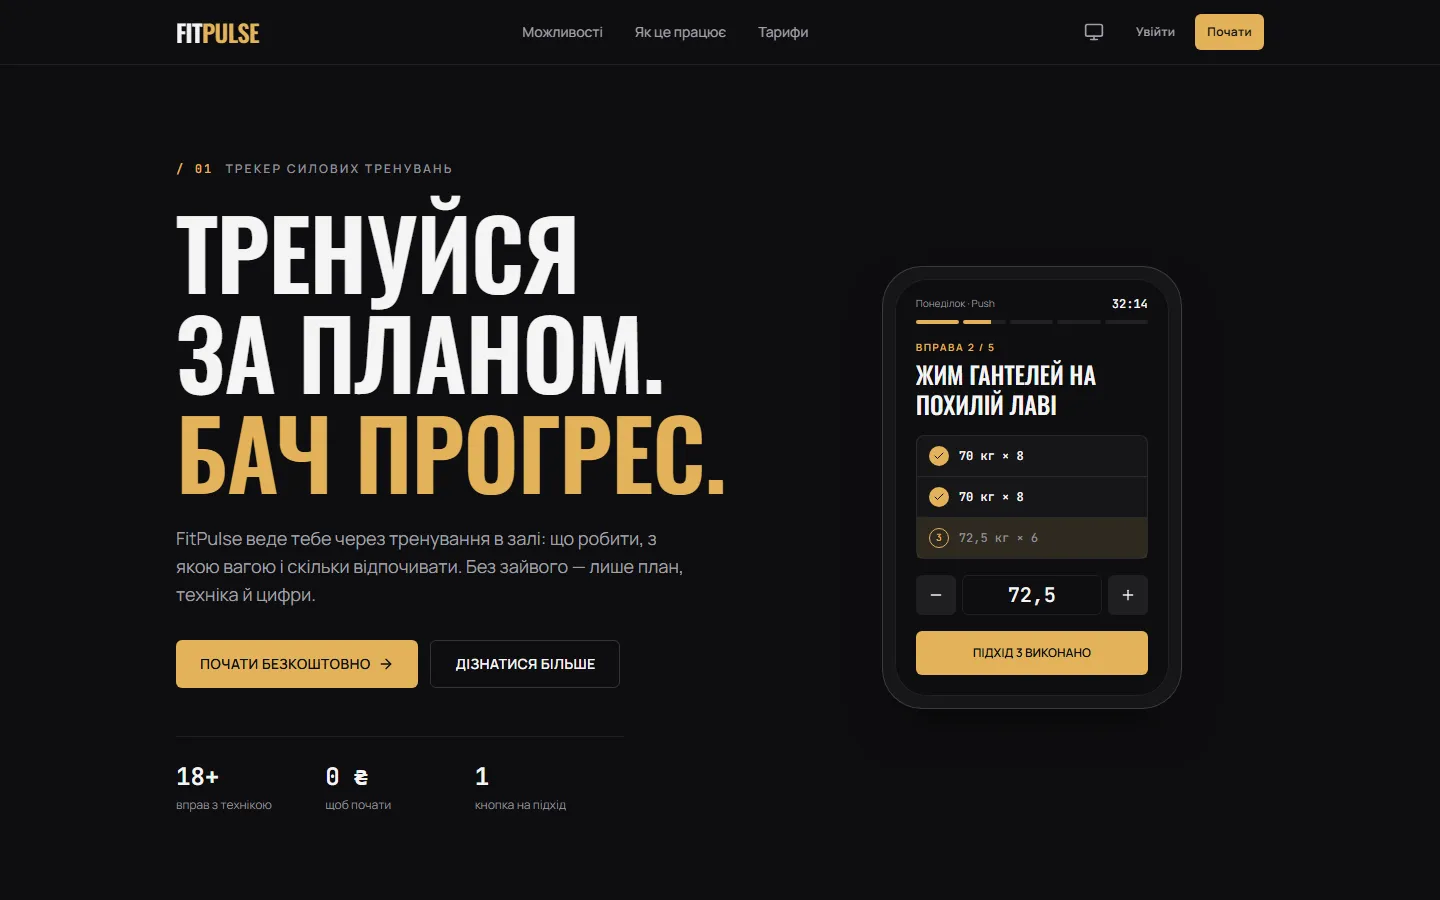
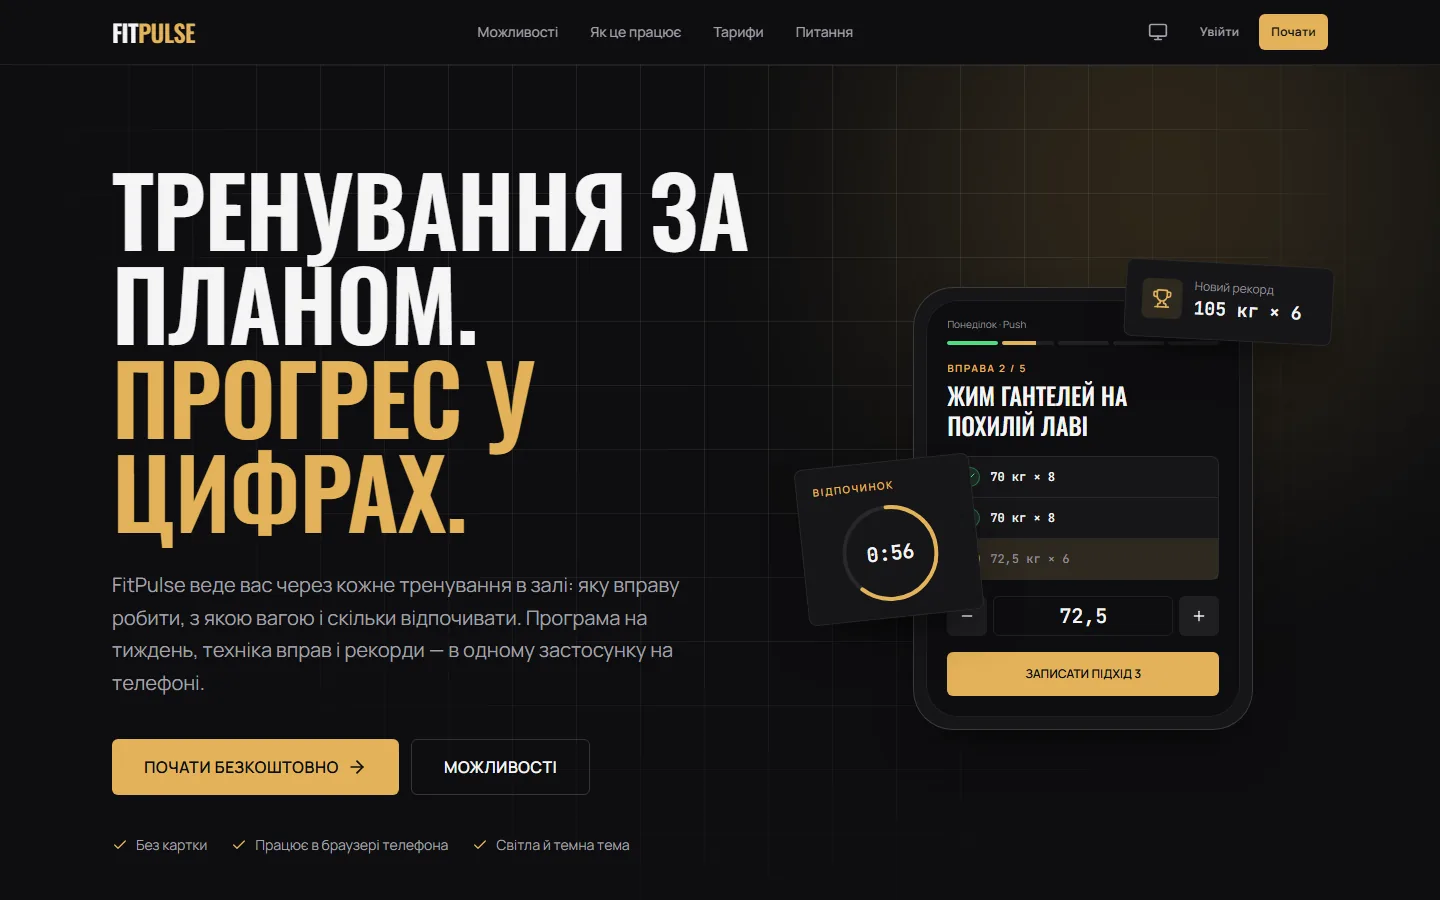
docs(readme): describe current features, data storage and git workflow
Refresh landing screenshot, add features screenshot and a pull request template.

diff --git a/README.md b/README.md
@@ -1,38 +1,66 @@
 # FitPulse
 
-Трекер силових тренувань для телефона в залі: план на тиждень, техніка кожної вправи, режим тренування з таймером відпочинку і журнал прогресу.
+Безкоштовний трекер силових тренувань для телефона в залі. Програма на тиждень, техніка кожної вправи, режим тренування з таймером відпочинку і журнал прогресу — в одному застосунку, без встановлення.
 
-[Демо](https://fit-pulse-beta-opal.vercel.app)
+**[Відкрити демо](https://fit-pulse-beta-opal.vercel.app)**
 
-![Лендинг FitPulse](docs/screenshots/landing.webp)
-
-![Головна, режим тренування, відпочинок і каталог вправ на телефоні](docs/screenshots/mobile.webp)
+![Перший екран лендингу FitPulse](docs/screenshots/landing.webp)
 
 ## Можливості
 
-- **Акаунт.** Реєстрація та вхід з валідацією та індикатором надійності пароля. Фото профілю можна завантажити (обрізається до квадрата й стискається), без фото показується стандартна аватарка.
-- **Головна.** Тренування на сьогодні з однією кнопкою старту, тиждень (заплановані й виконані дні), підсумки тижня, останнє тренування.
-- **Режим тренування.** Повноекранний, під одну руку: великі степери ваги й повторів, кнопка «Підхід виконано», шторка відпочинку з ±15 с, звуком і вібрацією. Екран не гасне під час тренування (Wake Lock API).
-- **Каталог вправ.** Пошук, групи м'язів, фільтри в нижній шторці, обране. Для кожної вправи — фотокадри техніки, анімований манекен по фазах руху, анатомічна карта м'язів, типові помилки й поради.
-- **Програми.** Пошук за назвою або вправою, згорнутий список з міні-тижнем, редактор днів, старт дня однією кнопкою.
-- **Прогрес.** Журнал сесій, тоннаж, час у залі, автоматичний перерахунок особистих рекордів.
-- **Профіль.** ІМТ зі шкалою, денна норма калорій, тема, тариф, вихід з акаунта.
-- **Теми.** Світла, темна і «як у системі»; всі пари кольорів проходять контраст WCAG AA.
-- **Тарифи.** «Старт» безкоштовний; Pro і «Тренер» описані на лендингу як майбутні.
-- **Реклама.** Три рівні слотів (premium, standard, basic) і шторка після тренування; вимкнена за замовчуванням.
-
-## Стек
+![Можливості FitPulse: техніка вправ, режим тренування, таймер, програми, прогрес](docs/screenshots/features.webp)
 
 | | |
 |---|---|
-| UI | React 19, TypeScript (strict), Tailwind CSS 4 |
-| Стан | Redux Toolkit 2, React Redux |
-| Маршрутизація | React Router 7 |
+| **Техніка вправ** | Анімація чотирьох фаз руху, анатомічна карта м'язів, типові помилки й поради. Пошук і фільтри за м'язами, обладнанням і рівнем. |
+| **Режим тренування** | Повноекранний, під одну руку: вага й повтори кнопками ±, підхід записується одним дотиком. Екран не гасне під час сесії. |
+| **Таймер відпочинку** | Стартує сам після кожного підходу, з вібрацією і звуком; час можна змінити на ±15 с або пропустити. |
+| **Програми** | Готові спліти Push / Pull / Legs і Full Body або власний розклад. Пошук за назвою програми чи вправою. |
+| **Прогрес** | Журнал сесій, тоннаж, час у залі, особисті рекорди рахуються автоматично. |
+| **Головна** | Тренування на сьогодні з однією кнопкою старту, тиждень із виконаними й запланованими днями, підсумки. |
+| **Профіль** | Фото профілю, ІМТ, денна норма калорій, вибір теми, тариф. |
+
+![Головна, режим тренування, відпочинок і каталог вправ на телефоні](docs/screenshots/mobile.webp)
+
+## Для кого
+
+- **Новачкам** — щоб знати, яку вправу робити і як правильно.
+- **Тим, хто тренується давно** — щоб тримати програму й бачити прогрес у цифрах, а не в зошиті.
+
+## Тарифи
+
+| Тариф | Статус |
+|---|---|
+| **Старт** | безкоштовний назавжди: каталог вправ, до 3 програм, журнал і рекорди, таймер відпочинку |
+| **Pro** | у розробці: необмежені програми, розширена аналітика, синхронізація між пристроями, без реклами |
+| **Тренер** | у розробці: до 20 клієнтів, призначення програм, звіти по клієнтах |
+
+## Дизайн
+
+- Світла, темна і «як у системі» теми; контраст тексту відповідає WCAG AA.
+- Один теплий золотий акцент. Суцільна золота заливка — завжди кнопка; виконане позначається зеленим, поточне — золотим контуром.
+- Mobile-first: нижня панель із кнопкою тренування на телефоні, бічна навігація на комп'ютері.
+- Підтвердження й сповіщення — акуратні тости замість системних вікон.
+
+## Дані та приватність
+
+Бекенду поки немає: усе зберігається в браузері.
+
+- **localStorage** — акаунт, програми, журнал, рекорди, тема.
+- **sessionStorage** — стан однієї вкладки: фільтри каталогу, пошук програм, чернетка реєстрації, сторінка для повернення після входу, а також сесія без «Запам'ятати мене» (вихід після закриття вкладки).
+
+Паролі зберігаються лише як хеш (PBKDF2-SHA-256 із сіллю). Це навчальна реалізація, а не заміна серверній авторизації. Тренувальні дані поки спільні для всіх акаунтів одного браузера.
+
+## Технології
+
+| | |
+|---|---|
+| UI | React 19, TypeScript (strict), Tailwind CSS 4 — власні компоненти без UI-бібліотек |
+| Стан | Redux Toolkit 2 |
+| Маршрутизація | React Router 7, сторінки застосунку завантажуються ліниво |
 | Збірка | Vite 8 |
 | Якість | Oxlint, Vitest, GitHub Actions |
-| Інше | lucide-react, sonner (toast і діалоги підтвердження) |
-
-UI-компоненти власні, без бібліотек компонентів.
+| Інше | lucide-react, sonner |
 
 ## Запуск
 
@@ -40,77 +68,53 @@ UI-компоненти власні, без бібліотек компонен
 
 ```bash
 npm install
-npm run dev        # http://localhost:5173
+npm run dev
 ```
 
 | Команда | Що робить |
 |---|---|
-| `npm run dev` | Dev-сервер |
-| `npm run build` | Перевірка типів і production-збірка в `dist/` |
-| `npm run preview` | Перегляд production-збірки |
-| `npm run lint` | Oxlint |
-| `npm test` | Vitest |
+| `npm run dev` | dev-сервер на http://localhost:5173 |
+| `npm run build` | перевірка типів і production-збірка |
+| `npm run preview` | перегляд production-збірки |
+| `npm run lint` | перевірка коду |
+| `npm test` | тести |
 
-Змінні середовища (див. `.env.example`):
+Змінні середовища (`.env.example`):
 
 | Змінна | За замовчуванням | Опис |
 |---|---|---|
-| `VITE_ADS_ENABLED` | `false` | Показувати рекламні слоти |
-
-У dev-режимі на `/dev/ui` є вітрина всіх UI-компонентів в обох темах.
-
-## Маршрути
-
-| Шлях | Доступ | Сторінка |
-|---|---|---|
-| `/welcome` | усі | Лендинг з описом продукту й тарифами |
-| `/login`, `/register` | лише гості | Вхід і реєстрація |
-| `/` | після входу | Головна |
-| `/exercises` | після входу | Каталог вправ |
-| `/plans` | після входу | Програми |
-| `/workout` | після входу | Запуск і режим тренування |
-| `/progress` | після входу | Журнал і рекорди |
-| `/profile` | після входу | Профіль і налаштування |
+| `VITE_ADS_ENABLED` | `false` | показувати рекламні місця |
+| `VITE_SITE_URL` | адреса демо | домен для canonical і соцмереж |
 
 ## Структура
 
 ```
 src/
-  app/            store і типізовані хуки
-  components/
-    ui/           дизайн-система: Button, Modal, SegmentedControl, NumberStepper, ...
-    layout/       бічна панель, мобільна шапка й таб-бар, аватар
-    common/       анатомічна карта, манекен (athlete-rig), плеєр техніки
-  features/       модулі за доменом: model (slice, types), api, components, lib, hooks
-    auth/ ads/ dashboard/ exercises/ landing/ profile/
-    progress/ theme/ workoutPlan/ workoutSession/
-  pages/          сторінки маршрутів
-  routes/         маршрути й захист сторінок
-  services/       localStorage і демо-дані
-  utils/          форматування, ІМТ, обробка зображень
-tests/            юніт-тести
-docs/             скриншоти та матеріали про проєкт
+  app/          store
+  components/   дизайн-система, каркас застосунку, спільні віджети
+  features/     модулі: auth, ads, dashboard, exercises, landing, profile,
+                progress, theme, workoutPlan, workoutSession
+  pages/        сторінки
+  routes/       маршрути й захист сторінок
+  services/     робота зі сховищами браузера, демо-дані
+  utils/        допоміжні функції
+tests/          тести
+docs/           скриншоти й матеріали про проєкт
 ```
 
-Дизайн-токени описані в [src/index.css](src/index.css): примітиви → семантичні змінні (`--bg`, `--fg`, `--accent`, ...) → утиліти Tailwind (`bg-surface`, `text-fg-muted`, `border-line`). Компоненти використовують тільки семантичні класи, тож тема перемикається без змін у коді компонентів.
+## Як вносити зміни
 
-## Дані та авторизація
+Гілка на кожну задачу, від `main`, з префіксом типу:
 
-Бекенду немає: дані зберігаються в `localStorage` браузера, а стан окремої вкладки (фільтри, чернетки, сесія без «Запам'ятати мене») — у `sessionStorage`. Модулі `features/*/api` імітують асинхронний API, тож їх можна замінити HTTP-запитами без змін в інтерфейсі.
+| Префікс | Для чого | Приклад |
+|---|---|---|
+| `feat/` | нова можливість | `feat/landing-polish` |
+| `fix/` | виправлення | `fix/rest-timer-sound` |
+| `docs/` | документація | `docs/readme` |
+| `refactor/` | зміна коду без зміни поведінки | `refactor/workout-focus` |
+| `chore/` | залежності, конфігурація | `chore/update-deps` |
 
-Авторизація теж локальна. Паролі не зберігаються відкрито: використовується PBKDF2-SHA-256 з сіллю (Web Crypto). Це навчальна реалізація, а не заміна серверній авторизації. Тренувальні дані поки спільні для всіх акаунтів у одному браузері.
-
-## Тести
-
-```bash
-npm test
-```
-
-Покрито бізнес-логіку: реєстрацію, вхід і валідацію, тему, підсумок тренування й перерахунок рекордів, пошук програм, тиждень на головній, вибір реклами та обмеження частоти, перевірку зображень для аватарки, форматування чисел.
-
-## CI
-
-На кожен push і pull request у `main` GitHub Actions запускає lint, тести й збірку ([.github/workflows/ci.yml](.github/workflows/ci.yml)). Деплой — Vercel з гілки `main`.
+Коміти — за [Conventional Commits](https://www.conventionalcommits.org/): `feat(landing): two-column FAQ`, `fix(ui): ...`, `docs: ...`. Зміни потрапляють у `main` через pull request з описом. CI перевіряє lint, тести й збірку, а після злиття Vercel публікує нову версію.
 
 ## Фото
 

diff --git a/.github/pull_request_template.md b/.github/pull_request_template.md
@@ -1,0 +1,20 @@
+## Що змінено
+
+<!-- Коротко, по пунктах: що побачить користувач або розробник -->
+
+-
+
+## Навіщо
+
+<!-- Яку проблему вирішує або яку задачу закриває -->
+
+## Як перевірити
+
+- [ ] `npm run lint`
+- [ ] `npm test`
+- [ ] `npm run build`
+- [ ] Перевірено на телефоні та комп'ютері, у світлій і темній темах
+
+## Скриншоти
+
+<!-- Для змін в інтерфейсі: до і після -->
